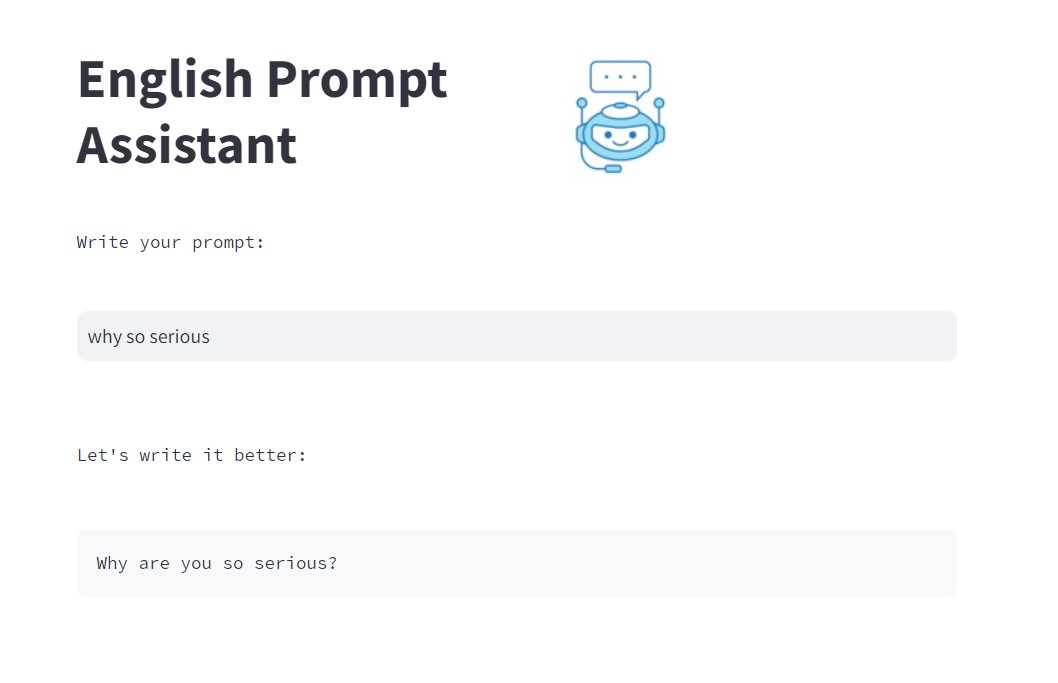
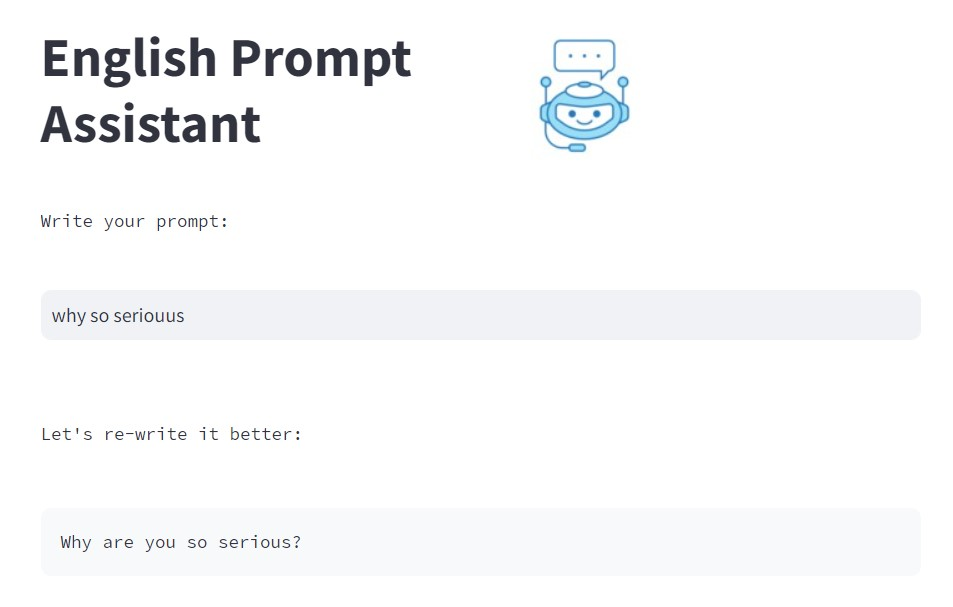
third commit: "re-write" instead of "write".

diff --git a/prompt_assist.py b/prompt_assist.py
@@ -27,7 +27,7 @@ if user_prompt:
 st.text("")
 st.text("")
 st.text("")
-st.text("Let's write it better:")
+st.text("Let's re-write it better:")
 st.text("")
 st.text("")
 st.code(rephrased_prompt, language="markdown")
